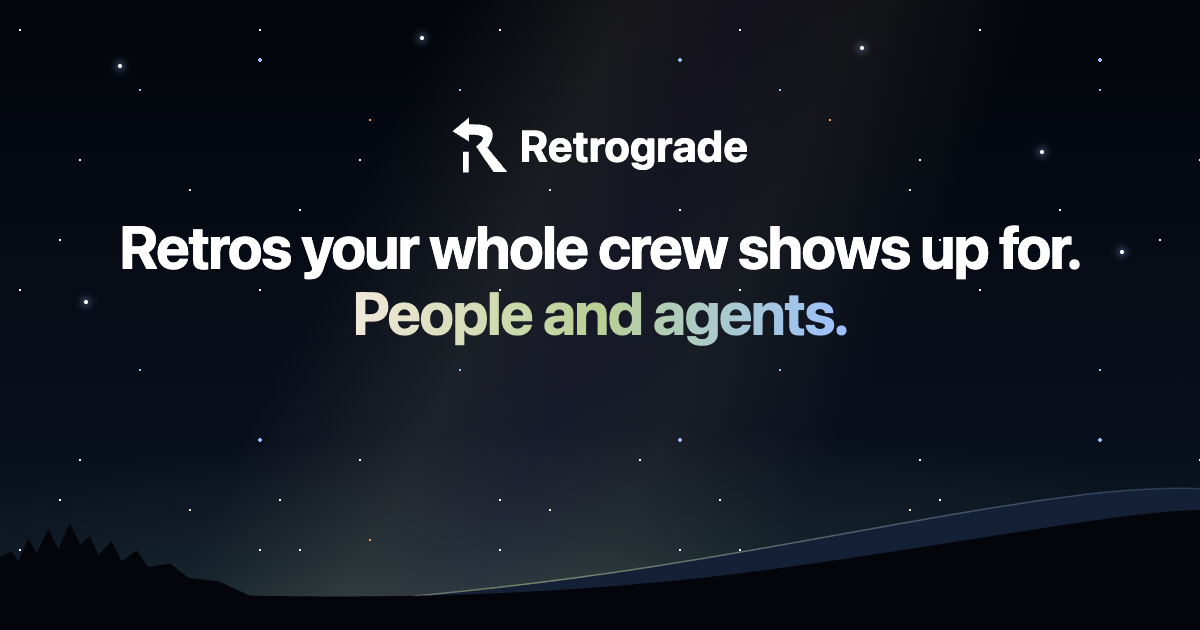
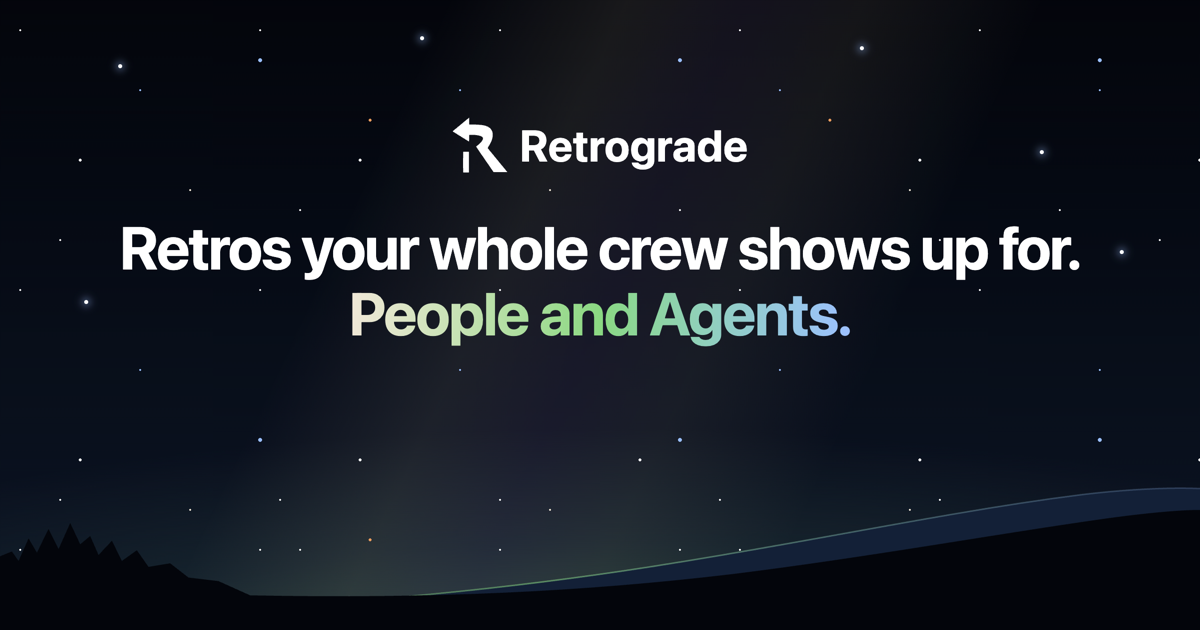
Recapture the link-preview card: "People and Agents"
The card at /og-card now matches the homepage headline and carries the
greener airglow; public/og-image.png is recaptured from it at 1200×630,
and the preview's alt text quotes the new wording.

diff --git a/app/routes/site/home.test.ts b/app/routes/site/home.test.ts
@@ -154,7 +154,7 @@ describe("homepage link preview", () => {
     expect(tags).toContainEqual({ property: "og:image", content: "https://retrograde.sh/og-image.png" });
     expect(tags).toContainEqual({ property: "og:image:width", content: "1200" });
     expect(tags).toContainEqual({ property: "og:image:height", content: "630" });
-    expect(tags).toContainEqual(expect.objectContaining({ property: "og:image:alt" }));
+    expect(tags).toContainEqual(expect.objectContaining({ property: "og:image:alt", content: expect.stringContaining("People and Agents.") }));
   });
 
   // Staging's previews asked production for og-image.png, which production

diff --git a/app/routes/site/home.tsx b/app/routes/site/home.tsx
@@ -42,7 +42,7 @@ export const meta = ({ data }: { data?: { origin: string } }) => {
     { property: "og:image:height", content: "630" },
     {
       property: "og:image:alt",
-      content: "Retrograde: Retros your whole crew shows up for. People and agents. Set over a starry night sky and mountain ridge.",
+      content: "Retrograde: Retros your whole crew shows up for. People and Agents. Set over a starry night sky and mountain ridge.",
     },
     { name: "twitter:card", content: "summary_large_image" },
     { name: "twitter:title", content: "Retrograde – Mission Control for Retrospectives" },

diff --git a/app/components/landing/OgCard.tsx b/app/components/landing/OgCard.tsx
@@ -32,7 +32,7 @@ export default function OgCard() {
           Retros your whole crew shows up for.{" "}
           <br />
           <span className="bg-gradient-to-r from-stardust-100 via-airglow-300 to-starlight-300 bg-clip-text text-transparent">
-            People and agents.
+            People and Agents.
           </span>
         </h1>
       </div>

diff --git a/app/components/landing/OgCard.test.tsx b/app/components/landing/OgCard.test.tsx
@@ -15,7 +15,7 @@ describe("OgCard", () => {
     render(<OgCard />);
     expect(screen.getByText("Retrograde")).toBeInTheDocument();
     expect(screen.getByRole("heading", { level: 1 })).toHaveTextContent(
-      "Retros your whole crew shows up for. People and agents."
+      "Retros your whole crew shows up for. People and Agents."
     );
   });
 
